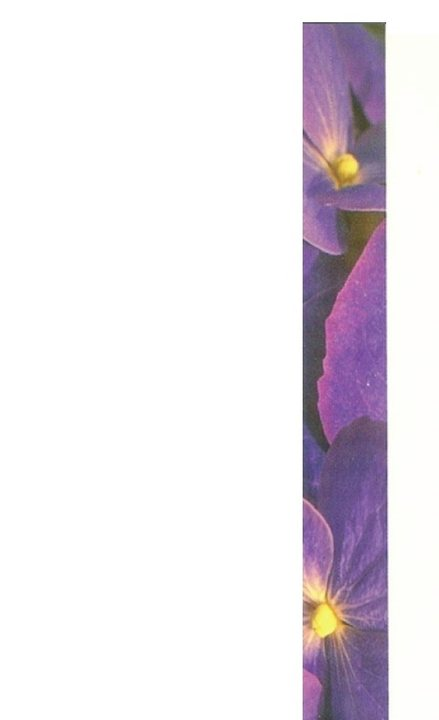
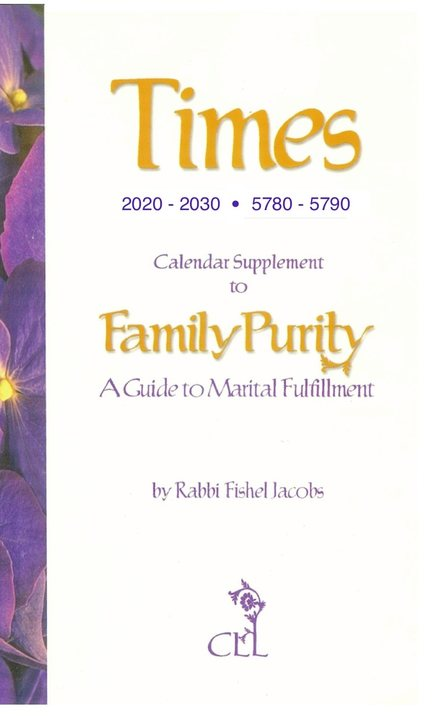
Add files via upload

diff --git a/index.html b/index.html
@@ -57,7 +57,7 @@
   .group > p.about{color:var(--muted);margin:0 0 1.5rem;max-width:34rem;font-size:1.05rem}
   .book{display:grid;grid-template-columns:7.5rem 1fr;gap:2.25rem;padding:2rem 0;border-top:1px solid var(--rule)}
   .book:first-of-type{border-top:0;padding-top:0}
-  .book .cover img{width:100%;height:auto;display:block;border-radius:1px;box-shadow:0 1px 4px rgba(27,42,37,.22)}
+  .book .cover img{width:100%;height:auto;display:block;border-radius:1px;border:1px solid rgba(27,42,37,.45);box-shadow:0 2px 6px rgba(27,42,37,.18)}
   .book .year{font-family:"Karla",sans-serif;font-size:.95rem;color:var(--muted);margin-top:.6rem}
   .book h4{font-size:1.3rem;font-weight:600;margin:0 0 .35rem;line-height:1.3}
   .book p{margin:0;max-width:34rem}
@@ -82,7 +82,7 @@
   .speaking .shot{margin:0}
   .speaking .shot img{width:100%;height:auto;display:block;border-radius:2px}
   .speaking .shot figcaption{font-family:"Karla",sans-serif;font-size:.9rem;color:var(--muted);margin-top:.6rem;line-height:1.45}
-  .two-up{display:grid;grid-template-columns:1fr 1fr;gap:3rem;align-items:start}
+  .two-up{display:grid;grid-template-columns:15rem 1fr;gap:3rem;align-items:start}
   .portrait{aspect-ratio:4/5;background:#DFE4DD;border-radius:2px;display:flex;align-items:center;justify-content:center;color:var(--muted);font-family:"Karla",sans-serif;font-size:.95rem;overflow:hidden}
   .portrait img{width:100%;height:100%;object-fit:cover}
 
@@ -126,7 +126,7 @@
     <div class="wrap">
       <h1>Hello. I'm Rabbi Fishel Jacobs.</h1>
       <div class="prose">
-        <p>I was born in Brooklyn and raised in Vermont. I spent thirteen years in yeshiva and kollel, and thirteen more as a chaplain and staff officer in the Israel Prison Service, serving the men inside maximum-security facilities.</p>
+        <p>I was born in Brooklyn and raised in Vermont. I spent thirteen years in yeshiva and kollel, and thirteen more as a chaplain and staff officer in the Israel Prison Service, serving the men and women inside maximum-security facilities.</p>
         <p>Along the way I've written books: halachic works for rabbis and for families, a memoir of my years inside maximum-security prisons, and stories for children. This page gathers all of it in one place.</p>
       </div>
     </div>
@@ -164,7 +164,7 @@
           <div>
             <h4>Family Purity — A Guide to Marital Fulfillment</h4>
             <p>My main English work: a complete guide to the laws and customs of taharas hamishpacha, following the Shulchan Aruch of the Alter Rebbe, written in a warm and usable tone for the English-speaking home.</p>
-            <blockquote>"Your book should be assured a distinguished place in every Jewish home and library."<cite>Rabbi Marlowe, Beth Din, Crown Heights</cite></blockquote>
+            <blockquote>"Well researched, and fills a void."<cite>Chabad Rabbinical Court of Eretz Yisrael</cite></blockquote>
           </div>
         </article>
 
@@ -174,8 +174,8 @@
             <div class="year"></div>
           </div>
           <div>
-            <h4>Times / Zemonim</h4>
-            <p>A calendar companion to <em>Family Purity</em>, gathering the laws of hefsek tahara, the Seven White Days and vestos alongside a multi-year calendar.</p>
+            <h4>Times</h4>
+            <p>The calendar companion to <em>Family Purity</em>: the laws of hefsek tahara, the Seven White Days and vestos, with a multi-year calendar. Published in Hebrew as <em>Zemonim</em>.</p>
             <blockquote>"A well compiled work … of value to the public."<cite>Rabbi Yitzchak Yeruslavski, Head Rabbi of Kiryat Melachi</cite></blockquote>
           </div>
         </article>
@@ -187,8 +187,8 @@
           </div>
           <div>
             <h4>Study Guide for Chosson and Kallah</h4>
-            <p>A teaching text for couples preparing for marriage, drawn from many years of teaching chassanim.</p>
-            <blockquote>"An excellent and valuable study aid."<cite>Rabbi T. Bolton, Assistant Rosh Yeshiva, Ohr Tmimim</cite></blockquote>
+            <p>A review guide for couples, whether preparing for marriage or already married, with multiple-choice quizzes that clarify and simplify the laws.</p>
+            <blockquote>"Tests should be given periodically to check the students' Torah knowledge."<cite>From a letter of the Lubavitcher Rebbe</cite></blockquote>
           </div>
         </article>
 
@@ -209,16 +209,6 @@
         <h3>Memoir</h3>
         <p class="about">Thirteen years as a chaplain inside Israel's maximum-security prisons, and what I learned there about people.</p>
 
-        <article class="book">
-          <div class="cover">
-            <img src="covers/israel-behind-bars.jpg" alt="Cover of Israel Behind Bars" loading="lazy">
-            <div class="year">2005</div>
-          </div>
-          <div>
-            <h4>Israel Behind Bars — True Stories of Hope and Redemption</h4>
-            <p>The first book written from inside the Israel Prison Service, told through the men I met there.</p>
-          </div>
-        </article>
 
         <article class="book">
           <div class="cover">
@@ -227,7 +217,7 @@
           </div>
           <div>
             <h4>Coffee Melts Bars — My Israeli Prison Career</h4>
-            <p>The memoir rewritten and republished: the full account of my years as a Major and chaplain, and the human moments that shaped how I understand compassion and responsibility.</p>
+            <p>The full account of my years as a Major and chaplain inside Israel's prisons, and the human moments that shaped how I understand compassion and responsibility.</p>
             <p class="meta">Gefen Publishing</p>
           </div>
         </article>
@@ -257,7 +247,7 @@
           <div>
             <h4>Two Kings: It's My Turn</h4>
             <p>The computer, the school project, and a sister who needs it more than he does.</p>
-            <p class="meta">Israel Bookshop Publications · Hebrew editions, 2014</p>
+            <p class="meta">Israel Bookshop Publications · Both titles translated into Hebrew and Russian, and used in the Israel Ministry of Education curriculum.</p>
           </div>
         </article>
       </div>
@@ -271,10 +261,11 @@
       <div class="two-up">
         <ol class="life">
           <li><span class="when">1974</span><div><strong>Black belt</strong><span>International Tang Soo Do Association, at eighteen.</span></div></li>
+          <li><span class="when">1976</span><div><strong>East Coast YMCA Black Belt Heavyweight Title</strong><span></span></div></li>
           <li><span class="when">1970s</span><div><strong>University of Vermont</strong><span>Found Judaism as a student, and left for yeshiva in Israel.</span></div></li>
-          <li><span class="when">1979</span><div><strong>Left for Israel</strong><span>To learn, and to stay.</span></div></li>
+          <li><span class="when">1979</span><div><strong>Left for Israel</strong><span>To learn, and stayed on to teach.</span></div></li>
           <li><span class="when">1979–1992</span><div><strong>Yeshiva and kollel</strong><span>Thirteen years at Tomchei Temimim, then ordination from the Chief Rabbinate and training as a rabbinic advocate at the Harry Fischel Institute.</span></div></li>
-          <li><span class="when">1992–2005</span><div><strong>Israel Prison Service</strong><span>Full-time chaplain and staff officer with the rank of Major, serving the men in maximum-security facilities.</span></div></li>
+          <li><span class="when">1992–2005</span><div><strong>Israel Prison Service</strong><span>Full-time chaplain and staff officer with the rank of Major, serving the men and women in maximum-security facilities.</span></div></li>
           <li><span class="when">1998–2007</span><div><strong>Tel Aviv University</strong><span>Chabad campus chaplain, as an emissary of the Rebbe.</span></div></li>
           <li><span class="when">2006</span><div><strong>Eighth-degree master instructor</strong><span>Promoted by Grandmaster Dr. Tae Yun Kim.</span></div></li>
         </ol>
@@ -289,8 +280,8 @@
     <div class="wrap speaking">
       <div class="prose">
       <h2>Speaking</h2>
-      <p>I speak at campuses, schools, communities and companies, in Israel and abroad, about the prison years, about the martial arts, and about what holds a family together. Some talks include a karate demonstration; most are simply stories and the lessons inside them.</p>
-      <p>If you'd like to arrange a talk, <a href="#contact">write to me</a> and tell me about your audience.</p>
+      <p>I’ve spoken at campuses, schools, communities and companies worldwide, about the prison years, about the martial arts, and about what holds a family together. Some talks include a karate demonstration; most are simply stories and the lessons inside them.</p>
+      <p>In recent years I’ve spent more time writing and publishing than speaking. If you’d like to arrange a talk, <a href="#contact">write to me</a> and tell me about your audience.</p>
       </div>
       <figure class="shot">
         <img src="demonstration.jpg" alt="Rabbi Fishel Jacobs breaking concrete blocks during a demonstration" loading="lazy">
